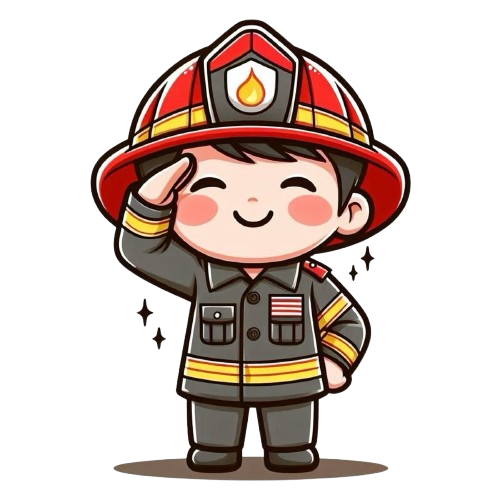
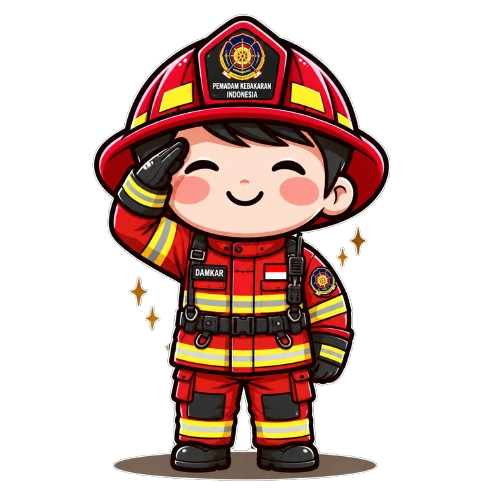
fix bug stok

diff --git a/app/Http/Controllers/ProfilInstansiController.php b/app/Http/Controllers/ProfilInstansiController.php
@@ -15,9 +15,10 @@ class ProfilInstansiController extends Controller
     private function cekKategori(string $kategori): string
     {
         $daftar = ProfilInstansi::daftarKategori();
-        if (!array_key_exists($kategori, $daftar)) {
+        if (! array_key_exists($kategori, $daftar)) {
             abort(404, 'Kategori Profil tidak ditemukan.');
         }
+
         return $daftar[$kategori];
     }
 
@@ -27,7 +28,7 @@ class ProfilInstansiController extends Controller
     private function pastikanAksesCrud(): void
     {
         $user = auth()->user();
-        if (!$user || !method_exists($user, 'hasAnyRole') || !$user->hasAnyRole(['Super User', 'Operator'])) {
+        if (! $user || ! method_exists($user, 'hasAnyRole') || ! $user->hasAnyRole(['Super User', 'Operator'])) {
             abort(403, 'Akses ditolak. Anda hanya memiliki izin baca (Read-Only).');
         }
     }
@@ -45,8 +46,8 @@ class ProfilInstansiController extends Controller
             $search = $request->search;
             $query->where(function ($q) use ($search) {
                 $q->where('judul', 'like', "%{$search}%")
-                  ->orWhere('keterangan', 'like', "%{$search}%")
-                  ->orWhere('tahun', 'like', "%{$search}%");
+                    ->orWhere('keterangan', 'like', "%{$search}%")
+                    ->orWhere('tahun', 'like', "%{$search}%");
             });
         }
 
@@ -75,24 +76,24 @@ class ProfilInstansiController extends Controller
         $judulKategori = $this->cekKategori($kategori);
 
         $request->validate([
-            'judul'        => 'required|string|max:255',
-            'tahun'        => 'nullable|digits:4',
-            'keterangan'   => 'nullable|string',
+            'judul' => 'required|string|max:255',
+            'tahun' => 'nullable|digits:4',
+            'keterangan' => 'nullable|string',
             'file_dokumen' => 'required|file|mimes:pdf|max:10240', // Wajib PDF, Maks 10MB
         ], [
-            'judul.required'        => 'Judul wajib diisi.',
+            'judul.required' => 'Judul wajib diisi.',
             'file_dokumen.required' => 'File dokumen PDF wajib diunggah.',
-            'file_dokumen.mimes'    => 'File dokumen wajib berformat PDF (.pdf).',
-            'file_dokumen.max'      => 'Ukuran file PDF maksimal 10MB.',
+            'file_dokumen.mimes' => 'File dokumen wajib berformat PDF (.pdf).',
+            'file_dokumen.max' => 'Ukuran file PDF maksimal 10MB.',
         ]);
 
         $path = $request->file('file_dokumen')->store("profil-instansi/{$kategori}", 'public');
 
         ProfilInstansi::create([
-            'kategori'     => $kategori,
-            'judul'        => $request->judul,
-            'tahun'        => $request->tahun,
-            'keterangan'   => $request->keterangan,
+            'kategori' => $kategori,
+            'judul' => $request->judul,
+            'tahun' => $request->tahun,
+            'keterangan' => $request->keterangan,
             'file_dokumen' => $path,
         ]);
 
@@ -122,19 +123,19 @@ class ProfilInstansiController extends Controller
         $item = ProfilInstansi::where('kategori', $kategori)->findOrFail($id);
 
         $request->validate([
-            'judul'        => 'required|string|max:255',
-            'tahun'        => 'nullable|digits:4',
-            'keterangan'   => 'nullable|string',
+            'judul' => 'required|string|max:255',
+            'tahun' => 'nullable|digits:4',
+            'keterangan' => 'nullable|string',
             'file_dokumen' => 'nullable|file|mimes:pdf|max:10240',
         ], [
-            'judul.required'     => 'Judul wajib diisi.',
+            'judul.required' => 'Judul wajib diisi.',
             'file_dokumen.mimes' => 'File dokumen pengganti wajib berformat PDF (.pdf).',
-            'file_dokumen.max'   => 'Ukuran file PDF maksimal 10MB.',
+            'file_dokumen.max' => 'Ukuran file PDF maksimal 10MB.',
         ]);
 
         $dataUpdate = [
-            'judul'      => $request->judul,
-            'tahun'      => $request->tahun,
+            'judul' => $request->judul,
+            'tahun' => $request->tahun,
             'keterangan' => $request->keterangan,
         ];
 
@@ -177,7 +178,7 @@ class ProfilInstansiController extends Controller
         $this->cekKategori($kategori);
         $item = ProfilInstansi::where('kategori', $kategori)->findOrFail($id);
 
-        if (!$item->file_dokumen || !Storage::disk('public')->exists($item->file_dokumen)) {
+        if (! $item->file_dokumen || ! Storage::disk('public')->exists($item->file_dokumen)) {
             abort(404, 'File dokumen tidak ditemukan.');
         }
 
@@ -185,18 +186,14 @@ class ProfilInstansiController extends Controller
 
         if ($request->boolean('raw')) {
             $base64 = base64_encode(file_get_contents($path));
+
             return response()->json([
-                'judul'  => $item->judul,
+                'judul' => $item->judul,
                 'base64' => $base64,
             ]);
         }
 
-        $filename = Str::slug($item->judul) . '.pdf';
-
-        return response()->file($path, [
-            'Content-Type'        => 'application/pdf',
-            'Content-Disposition' => 'inline; filename="' . $filename . '"',
-        ]);
+        return response()->file($path);
     }
 
     /**
@@ -207,11 +204,11 @@ class ProfilInstansiController extends Controller
         $this->cekKategori($kategori);
         $item = ProfilInstansi::where('kategori', $kategori)->findOrFail($id);
 
-        if (!$item->file_dokumen || !Storage::disk('public')->exists($item->file_dokumen)) {
+        if (! $item->file_dokumen || ! Storage::disk('public')->exists($item->file_dokumen)) {
             abort(404, 'File dokumen tidak ditemukan.');
         }
 
-        $filename = Str::slug($item->judul) . '.pdf';
+        $filename = Str::slug($item->judul).'.pdf';
 
         return Storage::disk('public')->download($item->file_dokumen, $filename, [
             'Content-Type' => 'application/pdf',
